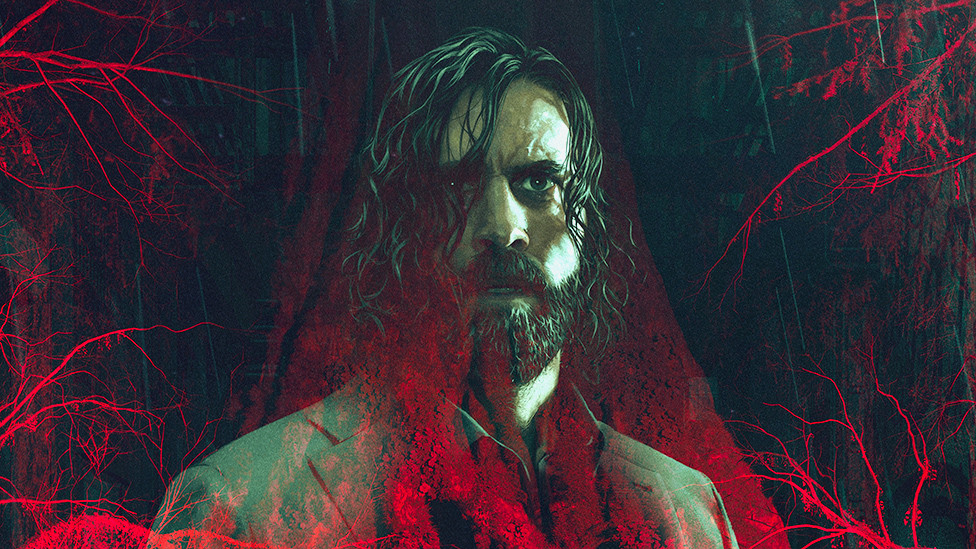
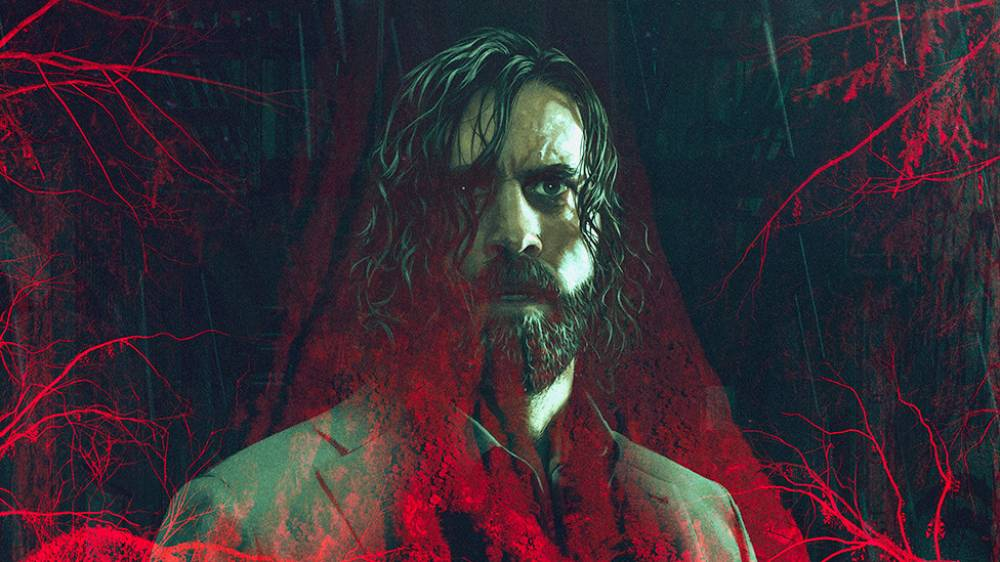
improve performance by resizing images

diff --git a/src/template.html b/src/template.html
@@ -40,7 +40,38 @@
           </div>
         </div>
         <div class="switch-slide-container">
-          <a class="left-slide-button"><</a><a class="right-slide-button">></i></a>
+          <a class="left-slide-button">
+            <svg
+              xmlns="http://www.w3.org/2000/svg"
+              width="24"
+              height="24"
+              viewBox="0 0 24 24"
+              fill="none"
+              stroke="currentColor"
+              stroke-width="2"
+              stroke-linecap="round"
+              stroke-linejoin="round"
+              class="lucide lucide-chevron-left-icon lucide-chevron-left"
+            >
+              <path d="m15 18-6-6 6-6" />
+            </svg>
+          </a>
+          <a class="right-slide-button">
+            <svg
+              xmlns="http://www.w3.org/2000/svg"
+              width="24"
+              height="24"
+              viewBox="0 0 24 24"
+              fill="none"
+              stroke="currentColor"
+              stroke-width="2"
+              stroke-linecap="round"
+              stroke-linejoin="round"
+              class="lucide lucide-chevron-right-icon lucide-chevron-right"
+            >
+              <path d="m9 18 6-6-6-6" />
+            </svg>
+          </a>
         </div>
         <div class="text-container">
           <h1 class="game-name">God of War : Ragnarok</h1>

diff --git a/src/styles/style.css b/src/styles/style.css
@@ -8,7 +8,6 @@
   --primary: #f2ff57;
   --gray: #707070;
   font-size: 16px;
-  /* font-family: "Inter", sans-serif; */
   font-family: "Inter", sans-serif;
 }
 
@@ -182,7 +181,6 @@ body {
   width: 1060px;
   display: flex;
   justify-content: space-between;
-  font-family: "Poppins", sans-serif;
 }
 
 .switch-slide-container a {
